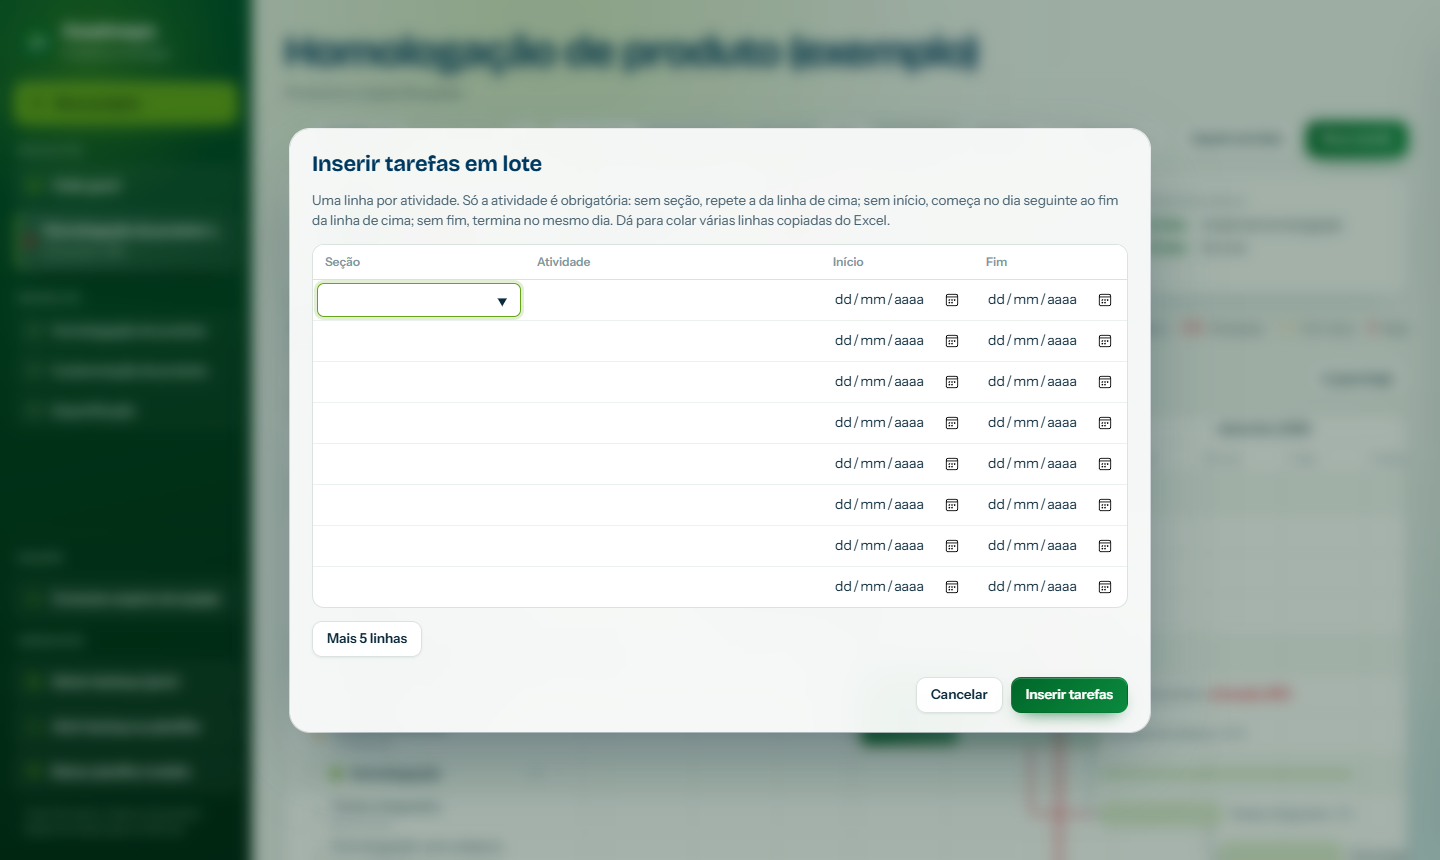
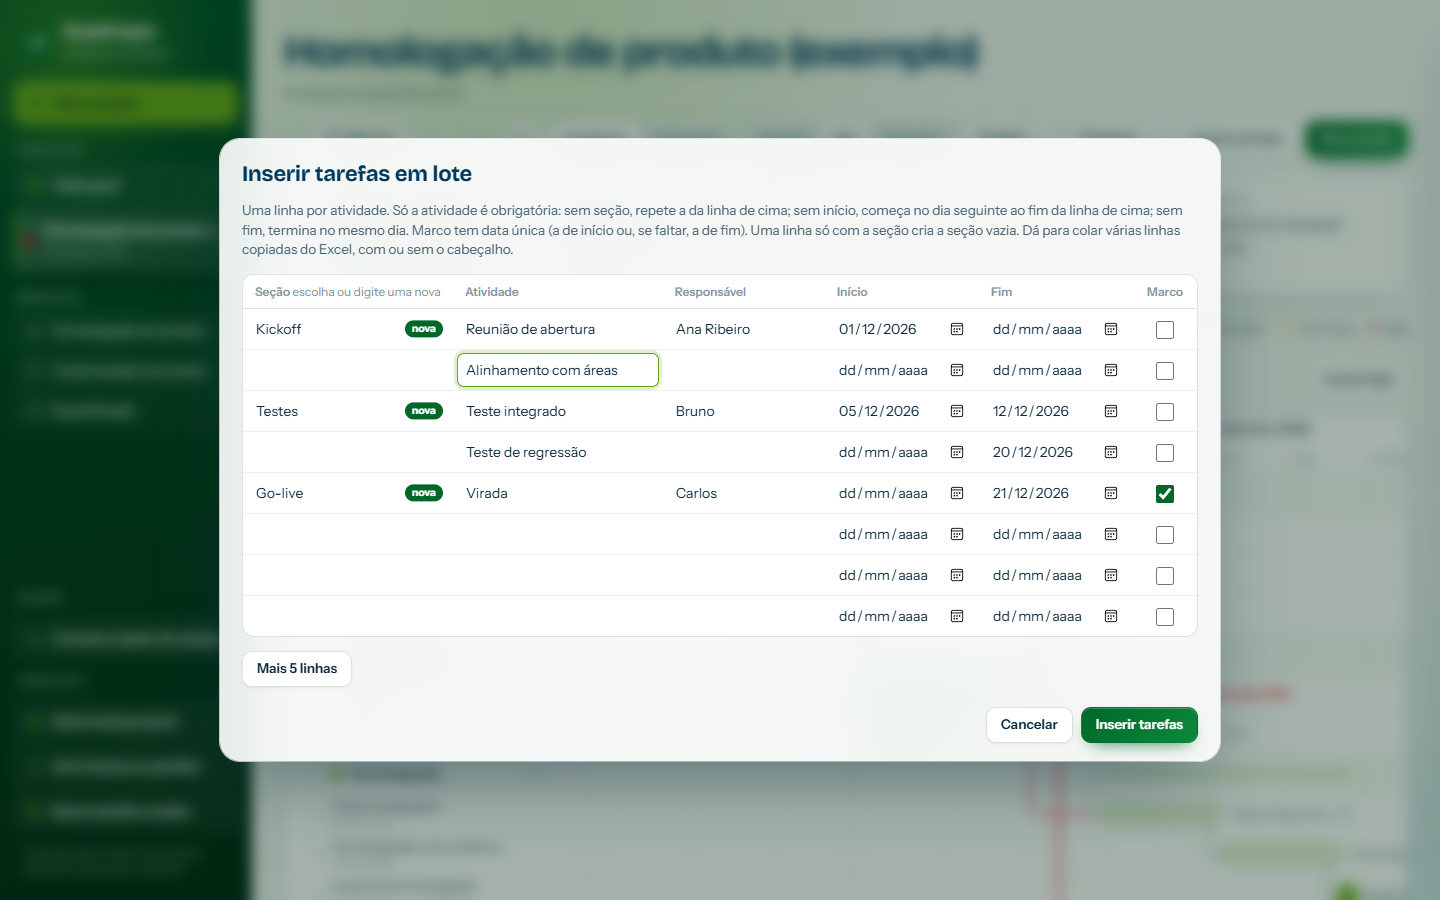
README: captura e descrição do lote atualizadas

diff --git a/README.md b/README.md
@@ -11,7 +11,7 @@ Ferramenta para montar cronogramas e roadmaps de projetos no navegador. É um ú
 - A visão Detalhada é um Gantt com uma linha por tarefa: grupos coloridos, dependências, marcos, % concluído e zoom por semana, mês ou trimestre. Arraste uma barra para mudar as datas.
 - A Linha única resume o projeto numa faixa de tarefas em sequência, com nome e datas. Com vários projetos, eles ficam um embaixo do outro sobre a mesma régua de meses, e dá para ver em que meses se cruzam.
 - A Visão geral põe todos os projetos numa linha do tempo e mostra se cada um está no prazo, em atenção, atrasado ou concluído.
-- Inserir em lote abre uma tabela com Seção, Atividade, Início e Fim. Você digita ou cola do Excel, e o programa preenche o que ficar vazio.
+- Inserir em lote abre uma tabela com Seção, Atividade, Responsável, Início, Fim e Marco. Você digita ou cola do Excel, cria seções novas ali mesmo, e o programa preenche o que ficar vazio.
 - Para importar, baixe a planilha modelo, preencha no Excel e abra no programa. A exportação gera um .xlsx com a lista de tarefas e um Gantt pintado.
 - A linha de base guarda o plano original e mostra quantos dias cada tarefa atrasou ou adiantou.
 - O HTML para envio é uma cópia só para leitura, que abre com dois cliques em qualquer computador.
